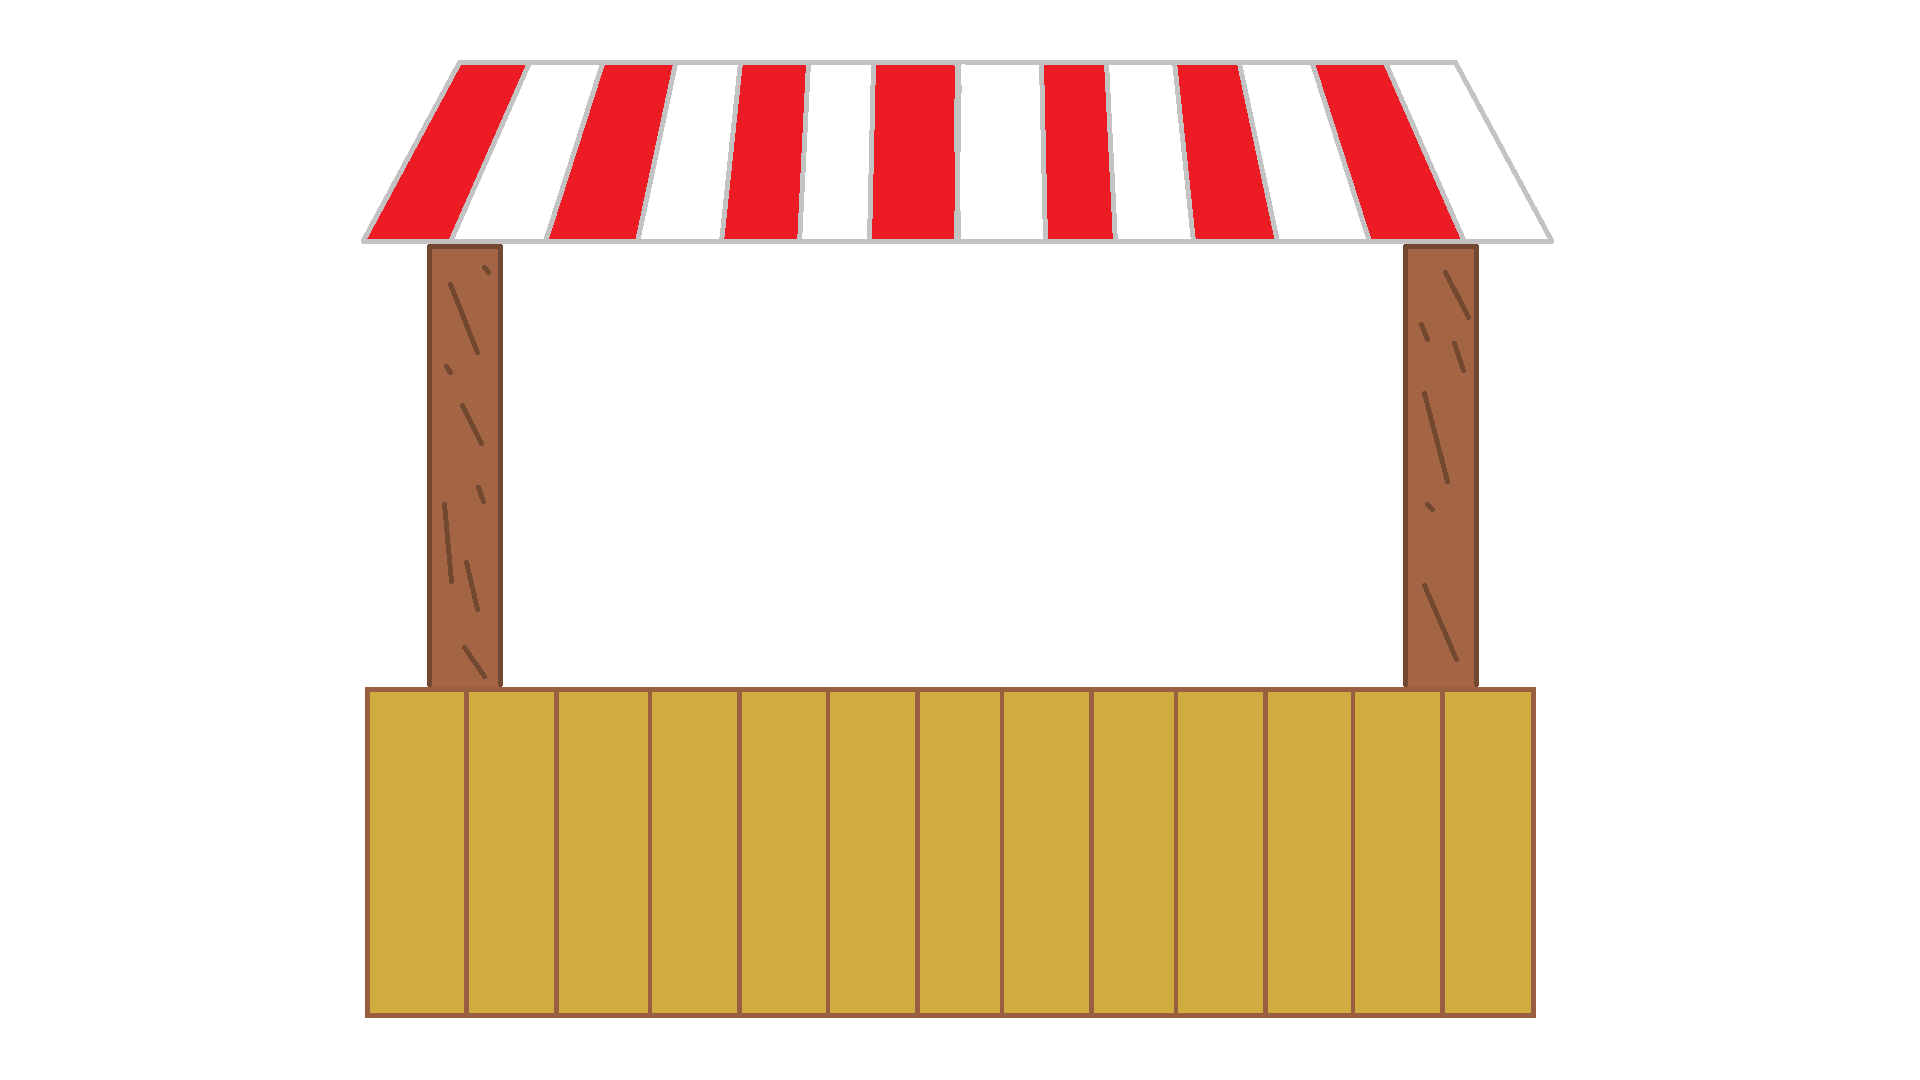
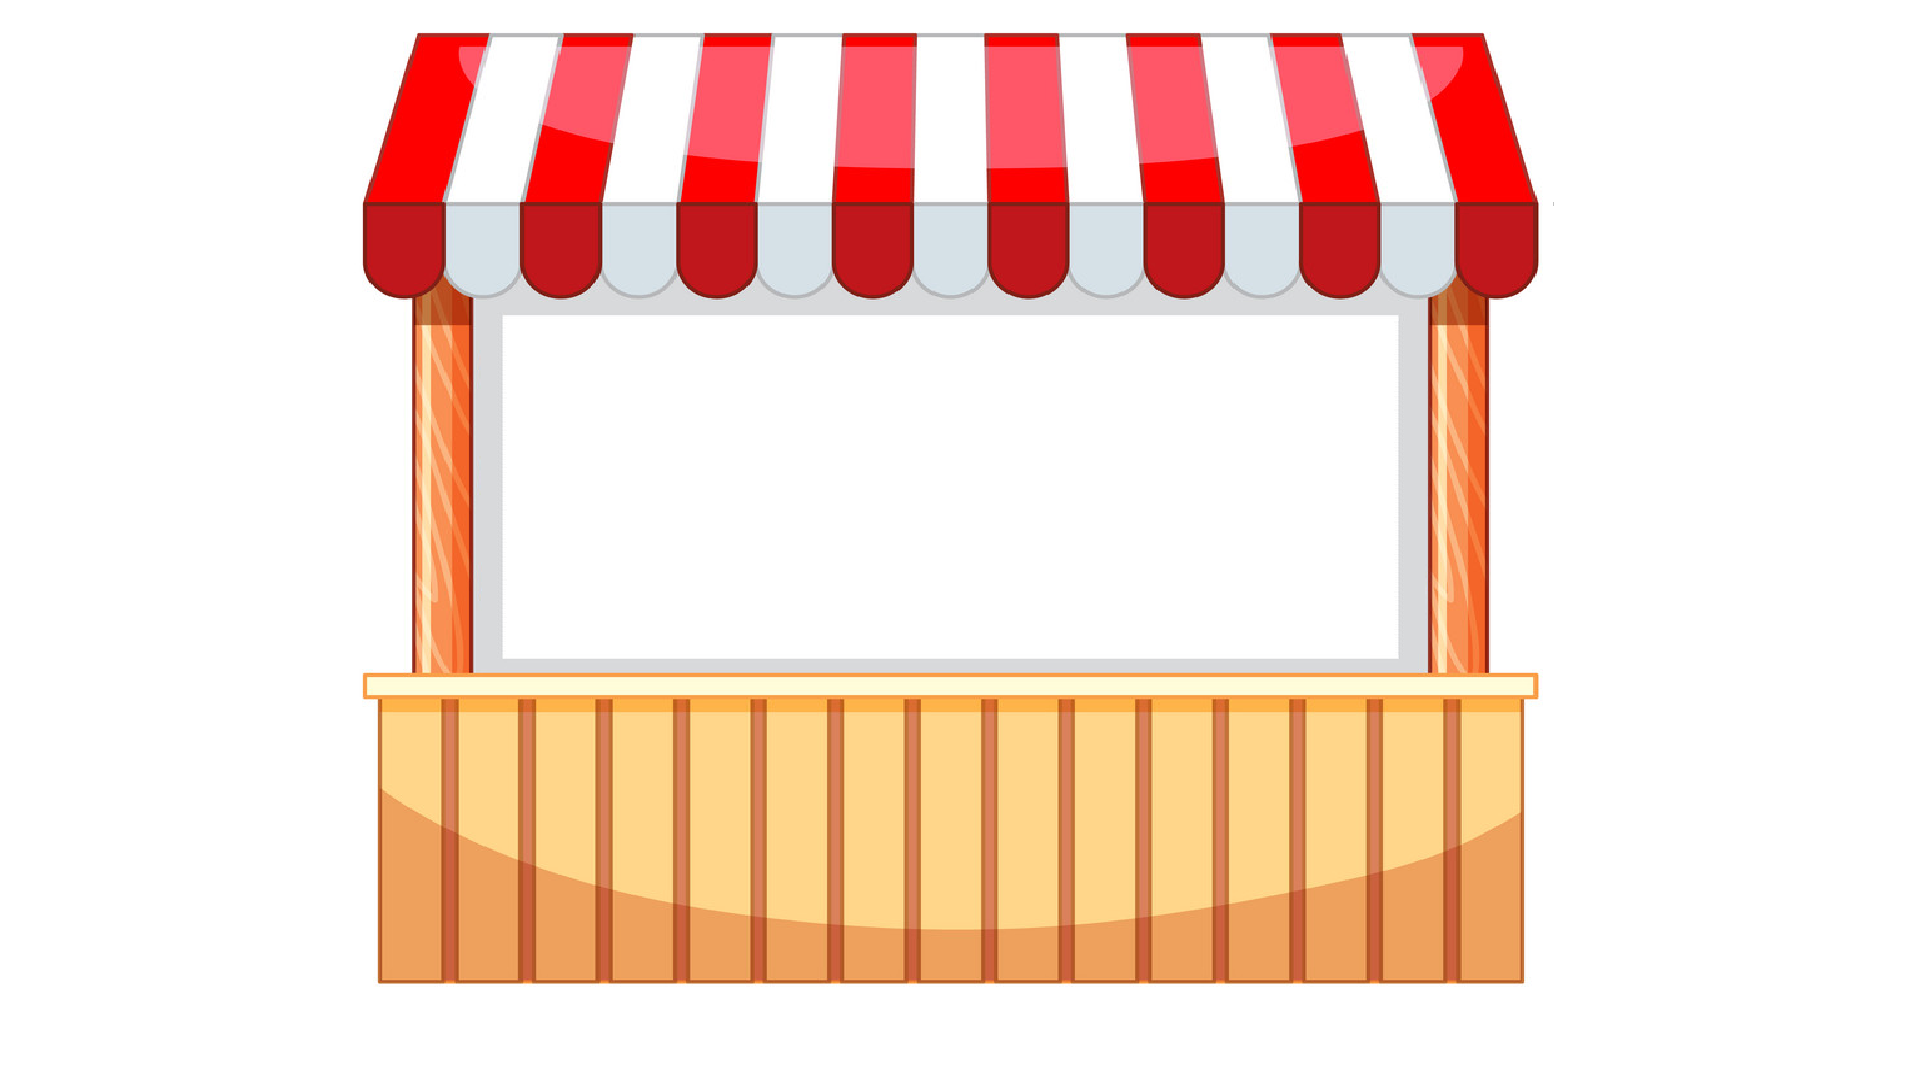
new background

diff --git a/javascript/script.js b/javascript/script.js
@@ -240,10 +240,11 @@ document.getElementById('reset-button').onclick = (event) => {
   document.getElementById("timer").innerHTML = "Timer:  ";
   document.getElementById("scr").innerHTML = "Score: ";
   
-  // document.getElementById('canvas').reset;
-  // canvas.getContext('2d').reset;
+  // document.getElementById('canvas');
+  // canvas.getContext('2d');
   // clearCanvas()
   // startGame()
+  ctx.clearRect(0, 0, canvas.width, canvas.height);
 
   document.getElementById("start-button").click()
     

diff --git a/styles/style.css b/styles/style.css
@@ -3,7 +3,7 @@ canvas {
   }
 
 body {
-  background-image: url(./images/background.png) ;
+  background-image: url(../images/background.png) ;
   background-size: cover;
   background-repeat: no-repeat;
   justify-content: center;
@@ -12,7 +12,7 @@ body {
 
 .canvas-position {
 
-  margin-top: 15%;
+  margin-top: 17%;
   margin-left: 25%;
   margin-right: 25%;
   

diff --git a/index.html b/index.html
@@ -6,7 +6,7 @@
     <meta http-equiv="X-UA-Compatible" content="ie=edge" />
     <title>Project</title>
     <link rel="stylesheet" href="styles/style.css" />
-    <link rel="shortcut icon" href="/images/favicon.ico">
+    <link rel="shortcut icon" href="./images/favicon.ico">
   </head>
   <body>
     
